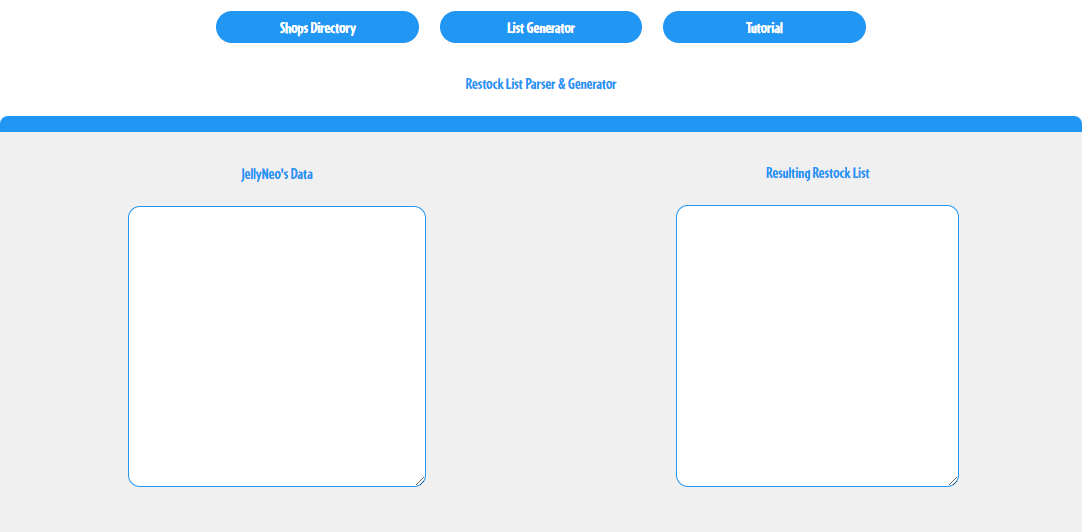
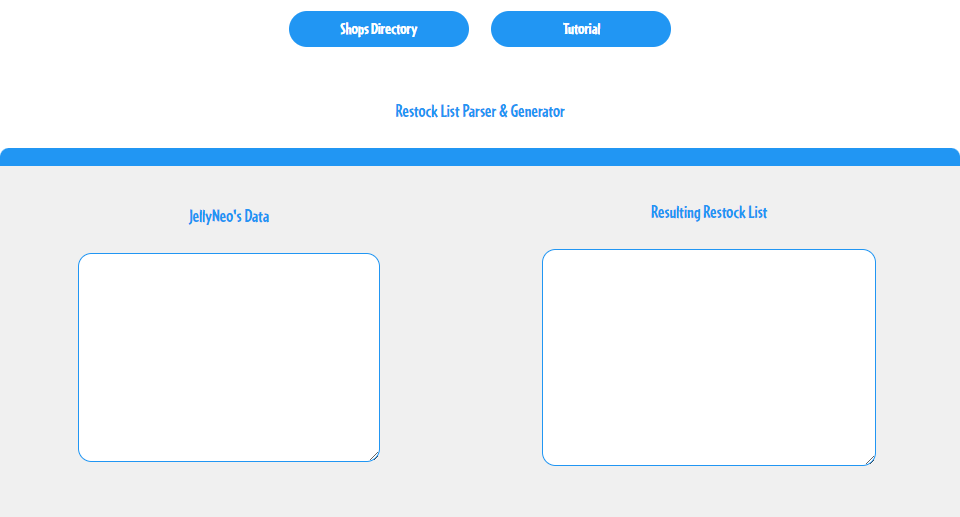
Restock List Generator GUI Changes
• Removed the tutorial section of the page as this is now at its respective manual page.
• Made the outputted list a read-only field.

diff --git a/Autobuyer/src/options/Tools/restockListGen.html b/Autobuyer/src/options/Tools/restockListGen.html
@@ -20,7 +20,6 @@
             <a href="https://www.jellyneo.net/?go=shopsdirectory" target="_blank">
                 <button class="autobuyerButton">Shops Directory</button>
             </a>
-            <button class="button" id="generator">List Generator</button>
             <a href="https://github.com/Unovamata/Neopets-Shop-And-Attic-Autobuyer-Cracked/wiki/Restock-List-Generator" target="_blank">
                 <button class="autobuyerButton">Tutorial</button>
             </a>
@@ -43,7 +42,7 @@
                                 </td>
                                 <td>
                                     <div class="subcategory-info">Resulting Restock List</div>
-                                    <textarea rows="20" cols="30" id="outputList"></textarea>
+                                    <textarea rows="20" cols="30" id="outputList" readonly></textarea>
                                     <br><br><br>
                                 </td>
                             </tr>
@@ -76,70 +75,6 @@
                                     </span>
                                 </td>
                                 <td><textarea rows="20" cols="50" id="ATTIC_RESTOCK_LIST"></textarea></td>
-                            </tr>
-                        </tbody>
-                    </table>
-                </div>
-
-                <div id="tutorial-display">
-                    <div class="subcategory-info">Restock List Generator Usage Guide</div>
-
-                    <table class="table">
-                        <tbody class="restock-generator">
-                            <thead>
-                                <th></th>
-                            </thead>
-                            <tr>
-                                <td style="text-align: left; padding-left: 100px;">
-                                    <b>1.</b> Click the <b>"Shops Directory"</b> button above, this will open JellyNeo's Shop Directory.
-                                </td>
-                            </tr>
-                            <tr>
-                                <td style="text-align: left; padding-left: 100px;">
-                                    <b>2.</b> Choose a shop for which you want to create a restock list. Then, find and click the "<img src="db.png">" icon below to the selected shop to browse the possible items to be stocked in said shop.
-                                </td>
-                            </tr>
-                            <tr>
-                                <td style="text-align: left; padding-left: 100px;">
-                                    <b>3.</b> After the page loads, use the search filters to adjust the parameters based on your needs.<br>
-                                    
-                                    <div class="subcategory-info" style="text-align: center;">Database Page Configuration Recommendations</div>
-                                    <div style="text-align: center;">
-                                        <b>
-                                        Rarity: <input value='1' disabled> to <input value="100" disabled><br><br>
-                                        Price Range: <input value='[Minimum NP Profit]' disabled> to <input value="" disabled><br><br>
-                                        Sort By: <input value='Price' disabled> <input value="Descending" disabled><br><br>
-                                        Exclude Neocash items? <input checked="true" type="checkbox"><br><br>
-                                        Results Per Page: <input value='75' disabled><br><br>
-                                        Status: <input value='Active' disabled></b>
-                                    </div>
-                                </td>
-                            </tr>
-                            <tr>
-                                <td style="text-align: left; padding-left: 100px;">
-                                    <b>4.</b> Select all the items filtered by the database, including images and prices <b>OR</b> click the <button class="button autobuyerButton" style="margin-bottom: 0px;">Print</button> button at the top-right section of the database page. Copy all entries found.<br><br><br>
-
-                                    <b>4.1.</b> If you decide to utilize the Print page approach, set the following options as follows:
-
-                                    <div class="subcategory-info" style="text-align: center;">Print Page Configuration Recommendations</div>
-                                    <div style="text-align: center;">
-                                        <b>
-                                        Number of Columns: <input value='1' disabled> <br><br>
-                                        Show item prices? <input checked="true" type="checkbox"><br><br>
-                                    </div>
-
-                                </td>
-                            </tr>
-                            <tr>
-                                <td style="text-align: left; padding-left: 100px;">
-                                    <b>5.</b> Now, simply paste all the entries you have copied into the <b>"JellyNeo's Data"</b> input field, then click anywhere outside that input field. NeoBuyer+ will automatically process the data and display the results in the <b>"Resulting Restock List"</b>.
-                                    <br><br><b>Note: Items with the "Inflation Notice" tag or unpriced items will be given higher priority in the "Resulting Restock List".</b>
-                                </td>
-                            </tr>
-                            <tr>
-                                <td style="text-align: left; padding-left: 100px;">
-                                    <b>6.</b> Select all entries <b>(Ctrl + A)</b> and then copy them, to ultimately paste them in the <b>"Restock List"</b> input field. With that, your <b>"Restock List"</b> will automatically sync with what the AutoBuyer and AutoAttic will reference for AutoBuying.
-                                </td>
                             </tr>
                         </tbody>
                     </table>
